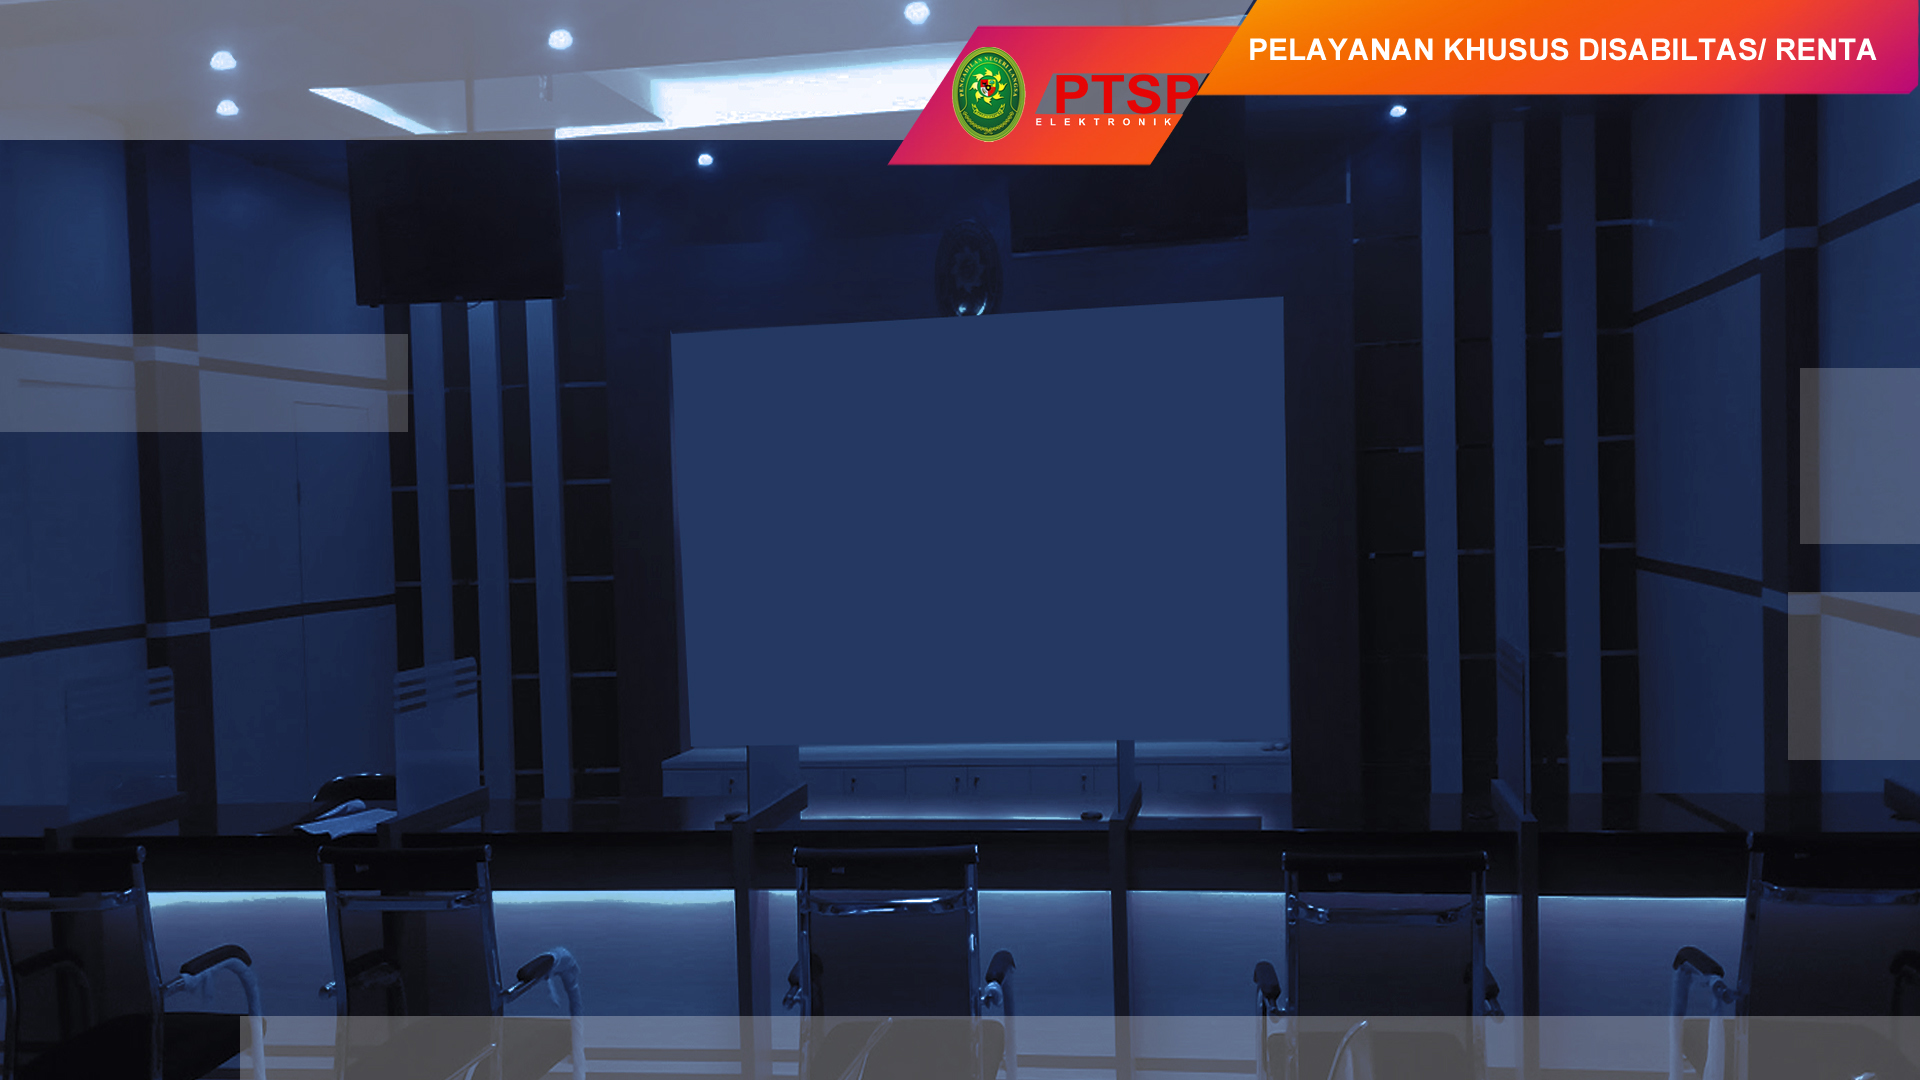
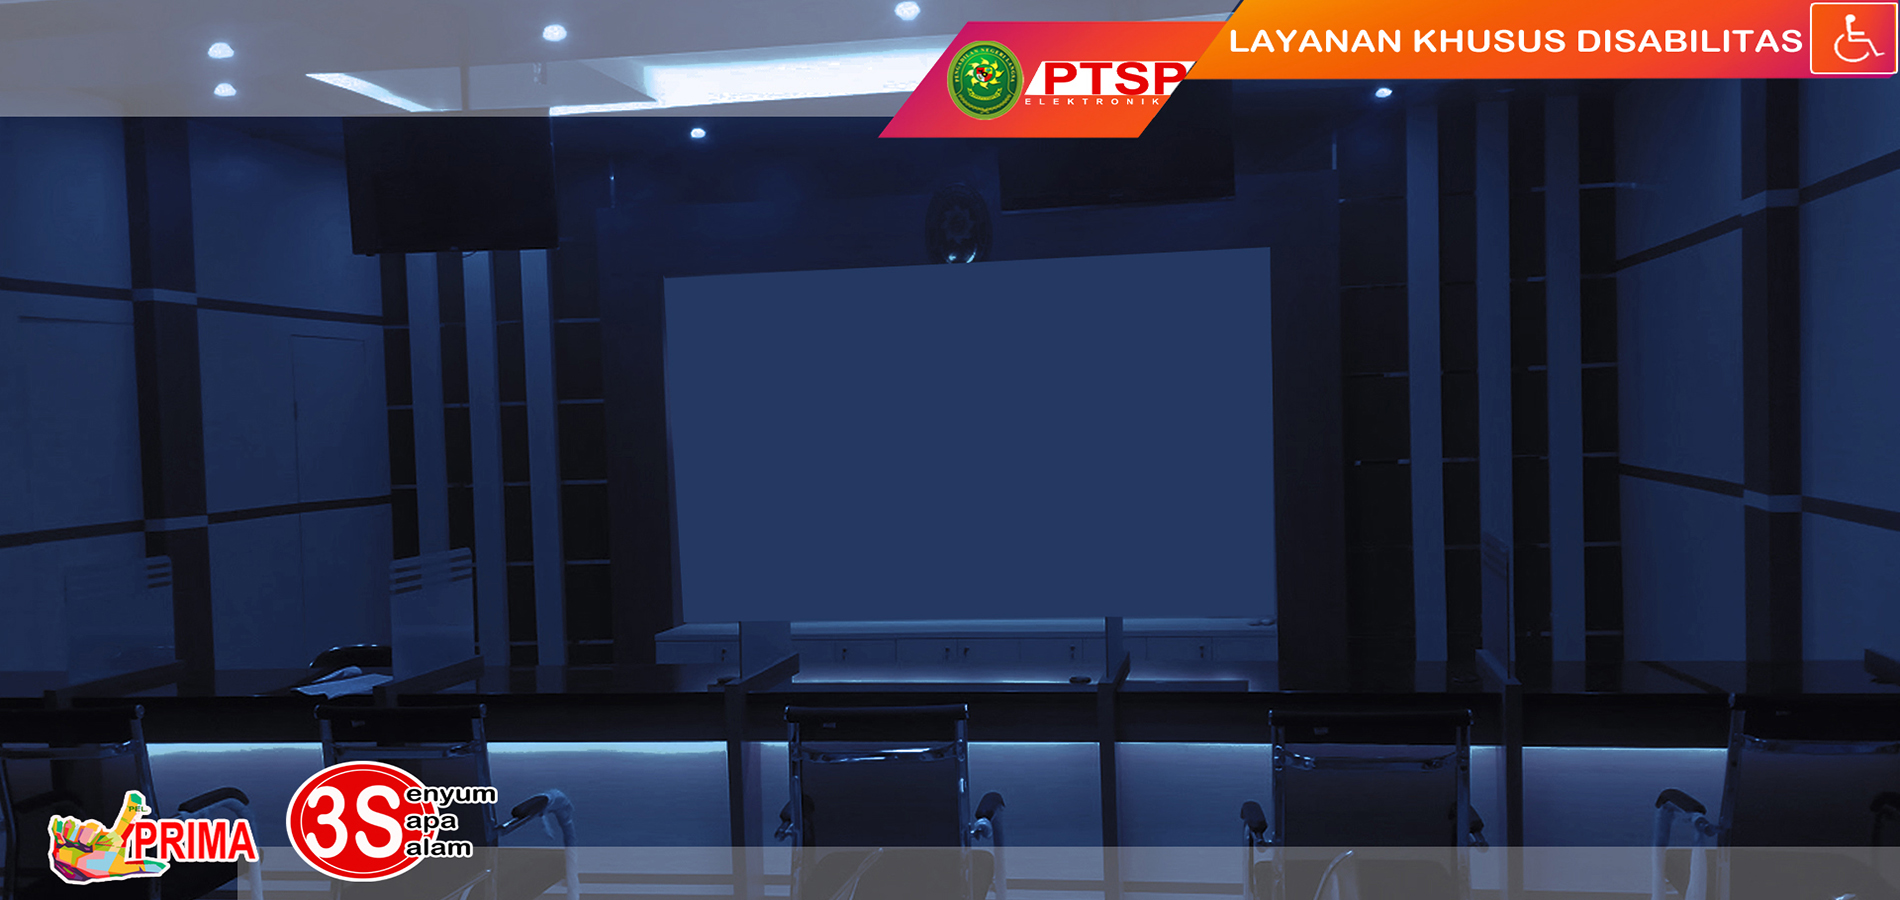
update halaman disabilitas

diff --git a/halaman-voluntair.html b/halaman-voluntair.html
@@ -7,7 +7,8 @@
 	<meta name="viewport" content="width=device-width, initial-scale=1, shrink-to-fit=no">
 	<meta name="description" content="Responsive Admin &amp; Dashboard Template based on Bootstrap 5">
 	<meta name="author" content="AdminKit">
-	<meta name="keywords" content="adminkit, bootstrap, bootstrap 5, admin, dashboard, template, responsive, css, sass, html, theme, front-end, ui kit, web">
+	<meta name="keywords"
+		content="adminkit, bootstrap, bootstrap 5, admin, dashboard, template, responsive, css, sass, html, theme, front-end, ui kit, web">
 
 	<link rel="preconnect" href="https://fonts.gstatic.com">
 	<link rel="shortcut icon" href="img/icons/icon-48x48.png" />
@@ -17,14 +18,18 @@
 	<title>Sign In | AdminKit Demo</title>
 	<style>
 		body {
-			background-image: url('bg-disabilitas-2.jpg');
+			background-image: url('bg-voluntair.jpg');
+			height: 100% !important;
+			background-position: center;
+			background-repeat: no-repeat;
 			background-size: cover;
-  		background-repeat: no-repeat;
 		}
+
 		h1 {
 			font-size: 40px !important;
 			color: #fff !important;
 		}
+
 		.jenis-layanan {
 			position: absolute;
 			right: 0;
@@ -40,30 +45,22 @@
 <body>
 	<main class="d-flex w-100">
 		<div class="container d-flex flex-column" style="margin-top: 150px;">
-			<h2 style="color: #fff;">Pelayanan Khusus Disabilitas / Renta Permohonan Perdata Voluntair adalah pelayanan dalam perkara perdata permohonan voluntair yang khusus diberikan kepada penyandang disabilitas / renta</h2>
-      <h2 style="color: #fff;">Adapun fasilitas yang diberikan yakni :
-      <ol>
-        <li>Konsultasi oleh Posbakum dapat dilakukan dirumah penerima layanan;</li>
-        <li>Persidangan perdata permohonan voluntair dikuasakan secara penuh kepada Posbakum PN Langsa;</li>
-        <li>Pembuatan dokumen permohonan dilakukan secara gratis oleh Posbakum;</li>
-        <li>Pemohon hanya membayar panjar biaya perkara perdata permohonan;</li>
-        <li>Penetapan perdata permohonan diantar langsung kerumah;</li>
-      </ol>
-      </h2>
-      <h2 style="color: #fff;">Jika Pemohon Disabilitas  / Renta termasuk kedalam ekonomi lemah dan dapat dibuktikan dengan surat keterangan tidak mampu maka panjar biaya dibiayai oleh Posbakum sepenuhnya;</h2>
-      <h2 style="color: #fff;">Silahkan persiapkan syarat berkas terlebih dahulu</h2>
-      <div class="text-center mt-3">
-        <a href="">
-          <img src="btn-download.png" alt="" width="200">
-        </a>
-				<a href="" style="margin-left: 20px;">
-          <img src="btn-ajukan.png" alt="" width="300">
-        </a>
-      </div>
-			<a href="halaman-disabilitas.html" style="position: absolute; bottom: 0; left: 0;">
-				<img src="btn-kembali-2.png" alt="" width="200">
-			</a>
-		</div>    
+			<div class="" style="position: absolute; top: 27%; right: 5%;">
+				<a href="#" target="_blank">
+					<img src="btn-syarat.png" alt="" width="170">
+				</a>
+			</div>
+			<div class="" style="position: absolute; bottom: 20%; right: 2%;">
+				<a href="#" target="_blank">
+					<img src="btn-voluntair-1.png" alt="" width="270">
+				</a>
+			</div>
+			<div class="" style="position: absolute; top: 7px; left: 2%;">
+				<a href="halaman-disabilitas.html">
+					<img src="btn-kembali-3.png" alt="" width="70">
+				</a>
+			</div>
+		</div>
 	</main>
 	<script src="app.js"></script>
 </body>

diff --git a/halaman-disabilitas.html b/halaman-disabilitas.html
@@ -39,39 +39,46 @@
 
 <body>
 	<main class="d-flex w-100">
-		<div class="container-fluid d-flex flex-column">
+		<div class="container d-flex flex-column">
 			<div class="row justify-content-center" style="margin-top: 120px;">
 				<div class="col-10">
 					<div class="row">
 						<div class="col-md-8">
 							<a href="halaman-fasilitas-disabilitas.html">
-								<img src="btn-disabilitas-1.png" alt="">
+								<img src="btn-disabilitas-1.png" alt="" width="400" style="margin-top: 5px">
 							</a><br>
 							<a href="halaman-voluntair.html">
-								<img src="btn-disabilitas-2.png" alt="" style="margin-top: -40px !important; margin-right: 100px !important;">
+								<img src="btn-disabilitas-2.png" alt="" width="400" style="margin-top: 5px">
 							</a><br>
 						</div>
 						<div class="col-md-4">
-							<img src="disabilitas.gif" alt="" class="d-none d-md-block" width="500" style="position: absolute; right: 150px; bottom: 0;">
+							<img src="disabilitas.gif" alt="" class="d-none d-md-block" width="430" style="position: absolute; right: 250px; bottom: 0;">
 						</div>
 					</div>					
 				</div>
-				<div class="col-2" style="margin-top: 100px;">
+				<div class="col-2">
 					<div class="d-flex justify-content-end">
-						<a href="">
-							<img src="telepon.png" alt="" width="100">
+						<a href="tel:+6282163480130" target="_blank">
+							<img src="btn-telp.png" alt="" width="120">
 						</a>
 					</div>
 					<div class="d-flex justify-content-end">
-						<a href="">
-							<img src="wa.png" alt="" width="100">
+						<a href="https://wa.me/6282163480130" target="_blank">
+							<img src="btn-vc.png" alt="" width="120">
+						</a>
+					</div>
+                    <div class="d-flex justify-content-end">
+						<a href="https://wa.me/6282163480130" target="_blank">
+							<img src="btn-wa.png" alt="" width="120">
+						</a>
+					</div>
+                    <div class="d-flex justify-content-end">
+						<a href="halaman-2.html">
+							<img src="btn-kembali-3.png" alt="" width="120">
 						</a>
 					</div>
 				</div>
-			</div>
-			<a href="halaman-2.html" style="position: absolute; bottom: 0; left: 0;">
-				<img src="btn-kembali.png" alt="">
-			</a>			
+			</div>	
 		</div>
 		<audio src="disabilitas.wav" type="audio/wav" autoplay hidden loop></audio>
 	</main>
